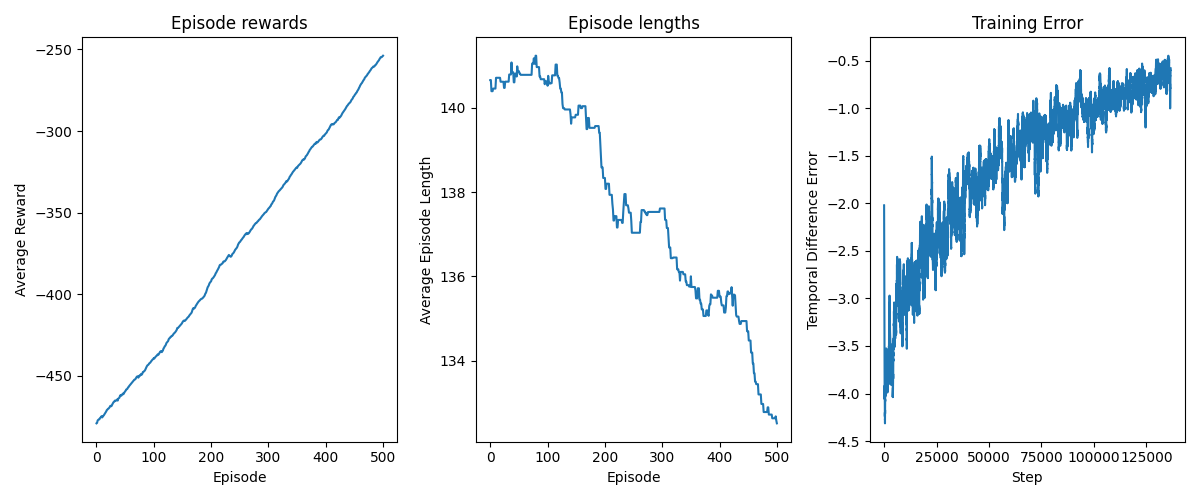
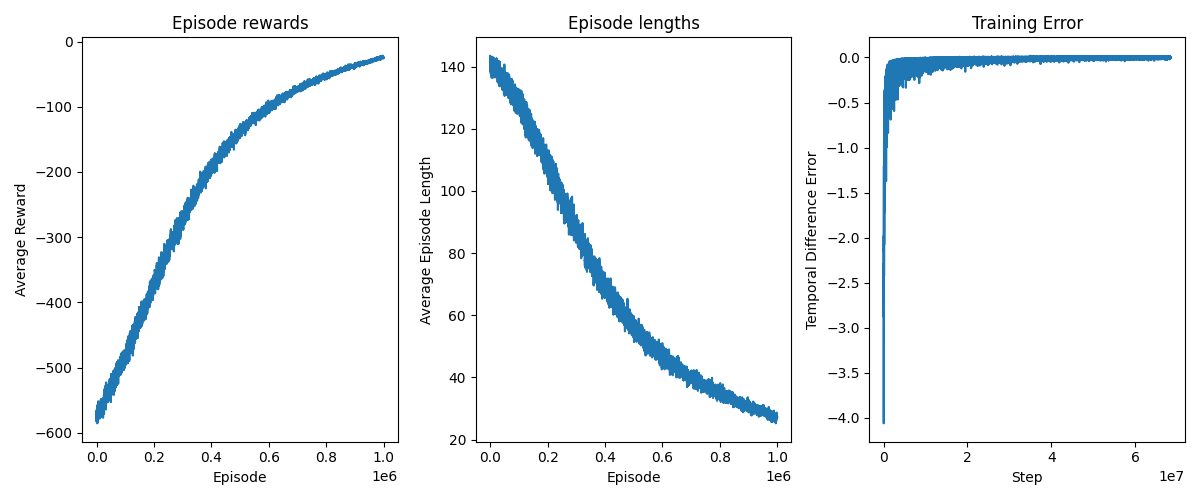
changed to py version 3.11.5 since pickle seems to break, docker compose setup

diff --git a/rl_train.py b/rl_train.py
@@ -4,7 +4,6 @@ import numpy as np
 from matplotlib import pyplot as plt
 from gymnasium.utils.env_checker import check_env
 from Agents.Q_Learning_Agent import QLearningAgent
-from Agents.SARSA_Agent import SARSAAgent
 from tqdm import tqdm
 
 
@@ -15,11 +14,11 @@ gym.register(
     max_episode_steps=150,  # Prevent infinite episodes
 )
 
-env = gym.make("gymnasium_env/GridWorld-Mannheim", render_mode="human")
+env = gym.make("gymnasium_env/GridWorld-Mannheim", render_mode=None)
 
 # Training hyperparameters
 learning_rate = 0.1        # How fast to learn (higher = faster but less stable)
-n_episodes = 1000         # Number of hands to practice
+n_episodes = 100        # Number of hands to practice
 start_epsilon = 1.0         # Start with 100% random actions
 epsilon_decay = start_epsilon / (n_episodes / 0.8)  # Reduce exploration over time
 final_epsilon = 0.1         # Always keep some exploration
